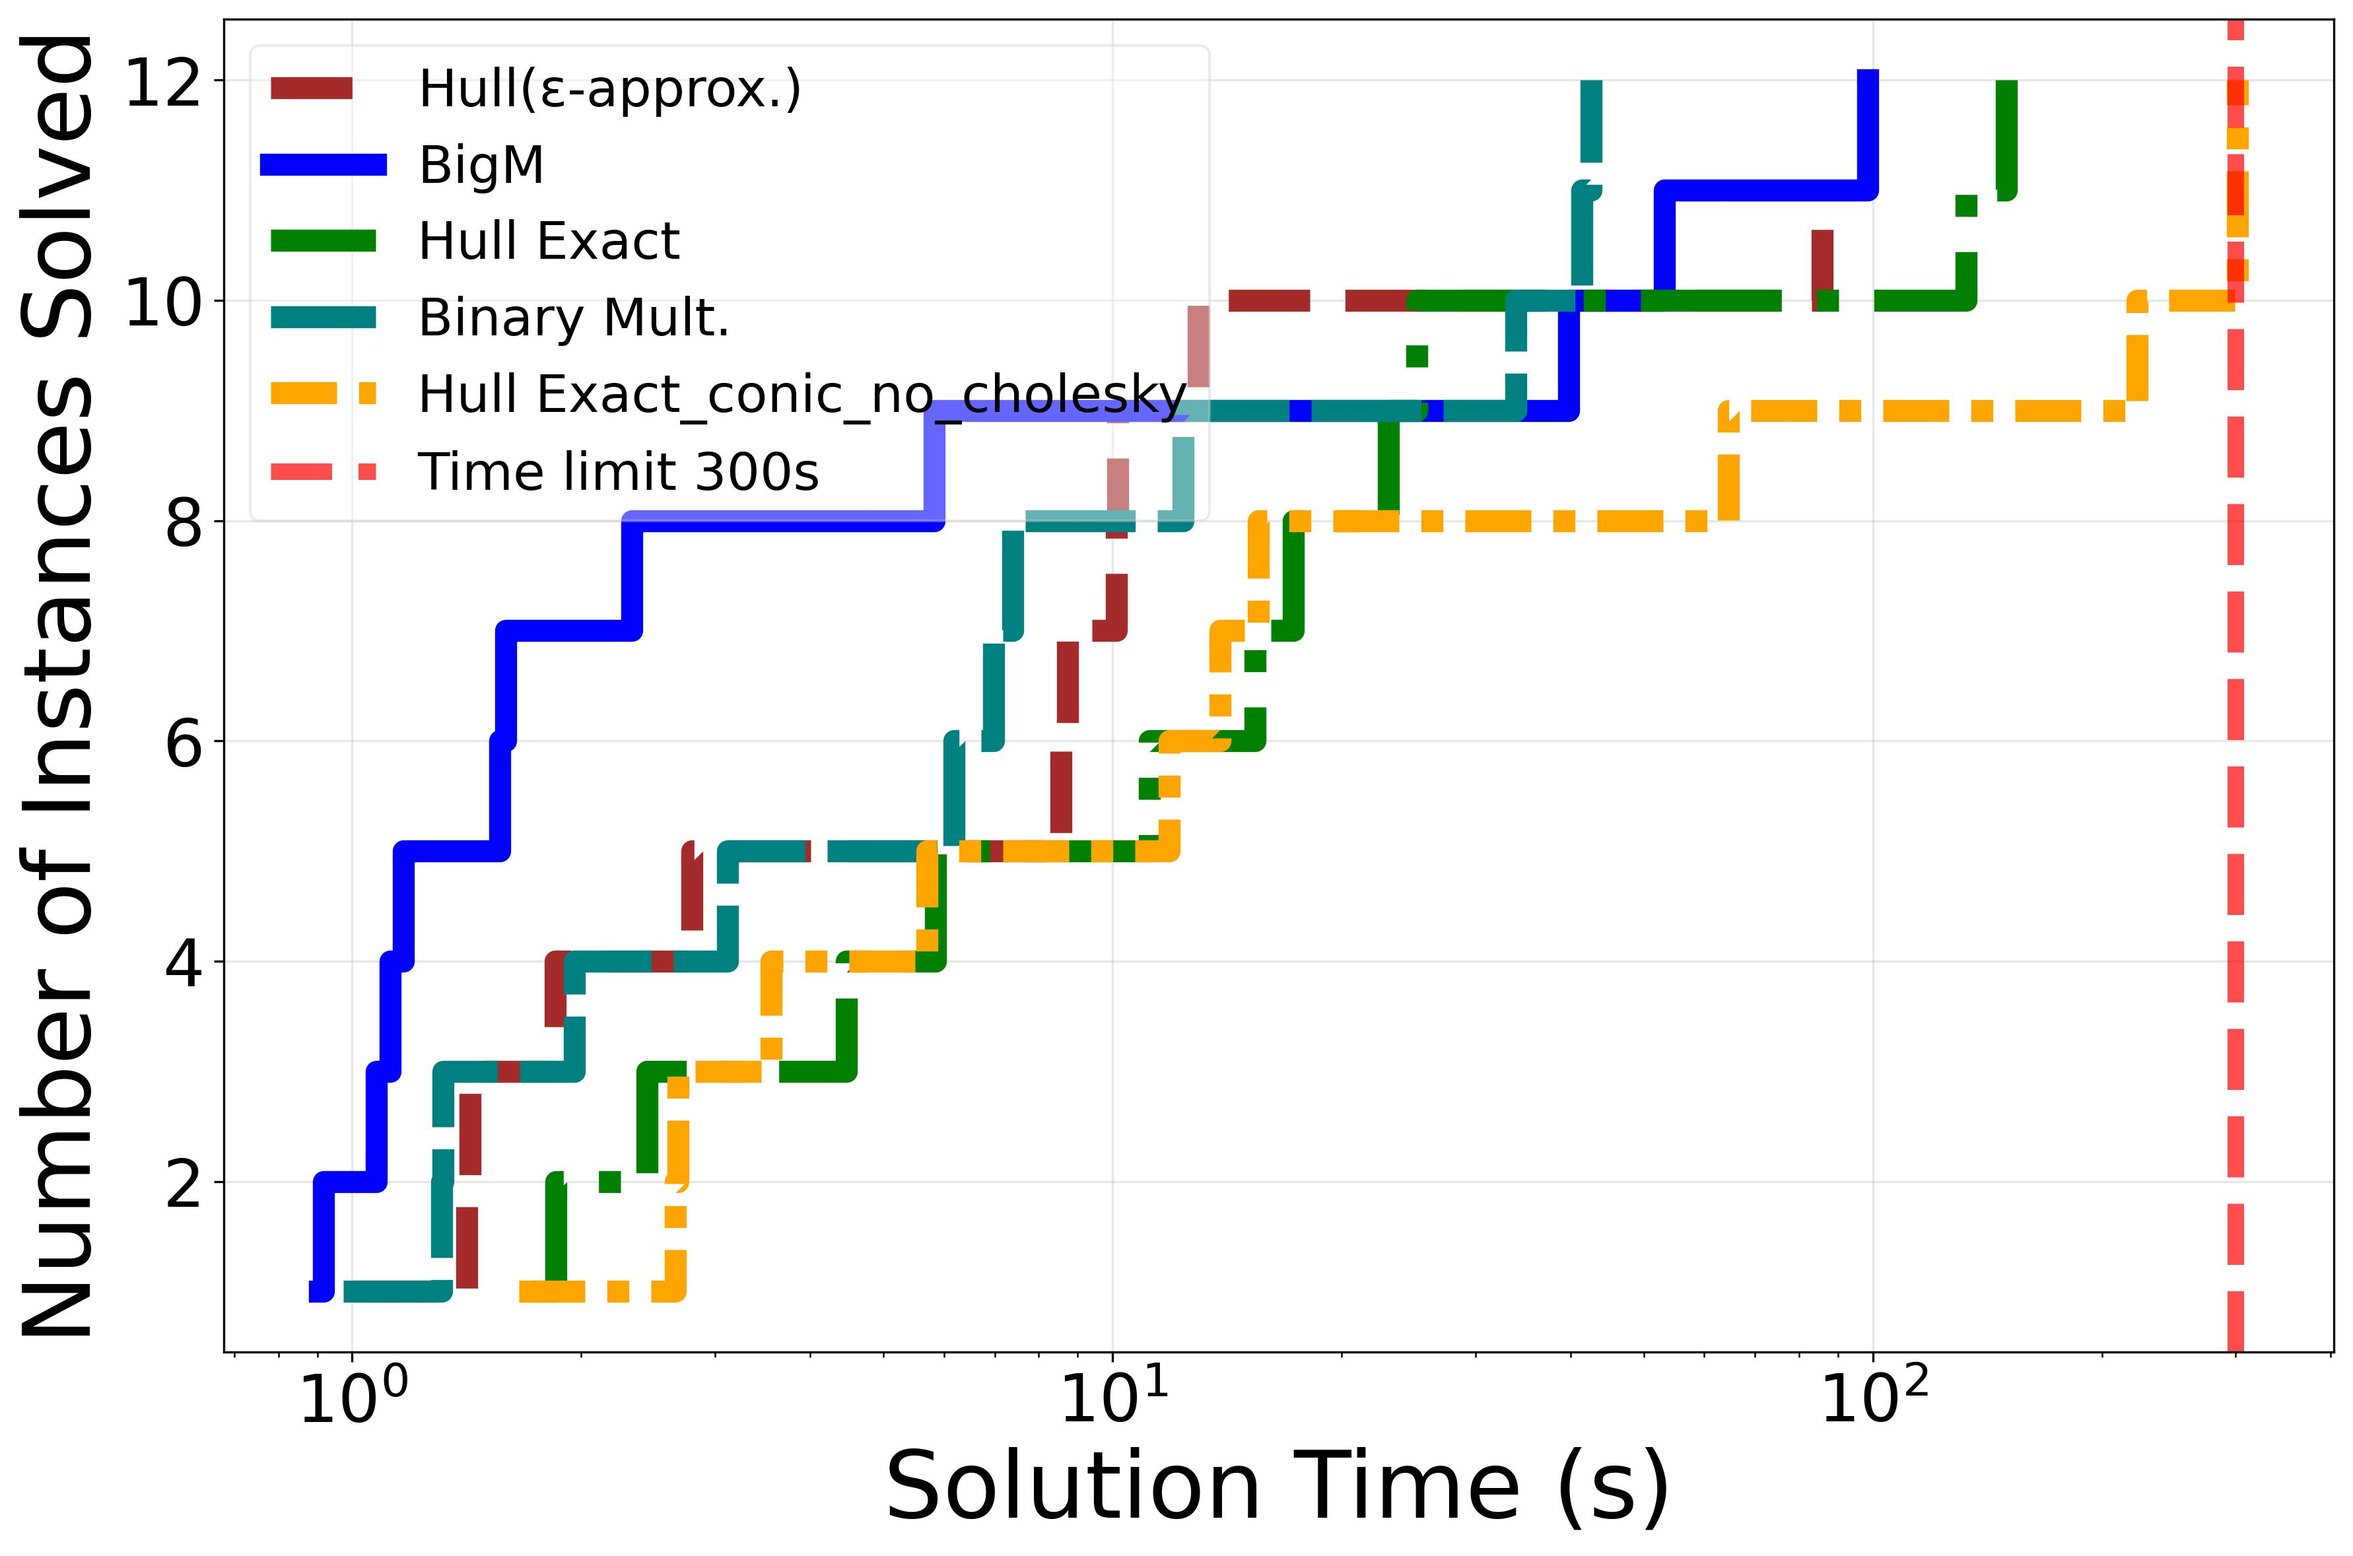
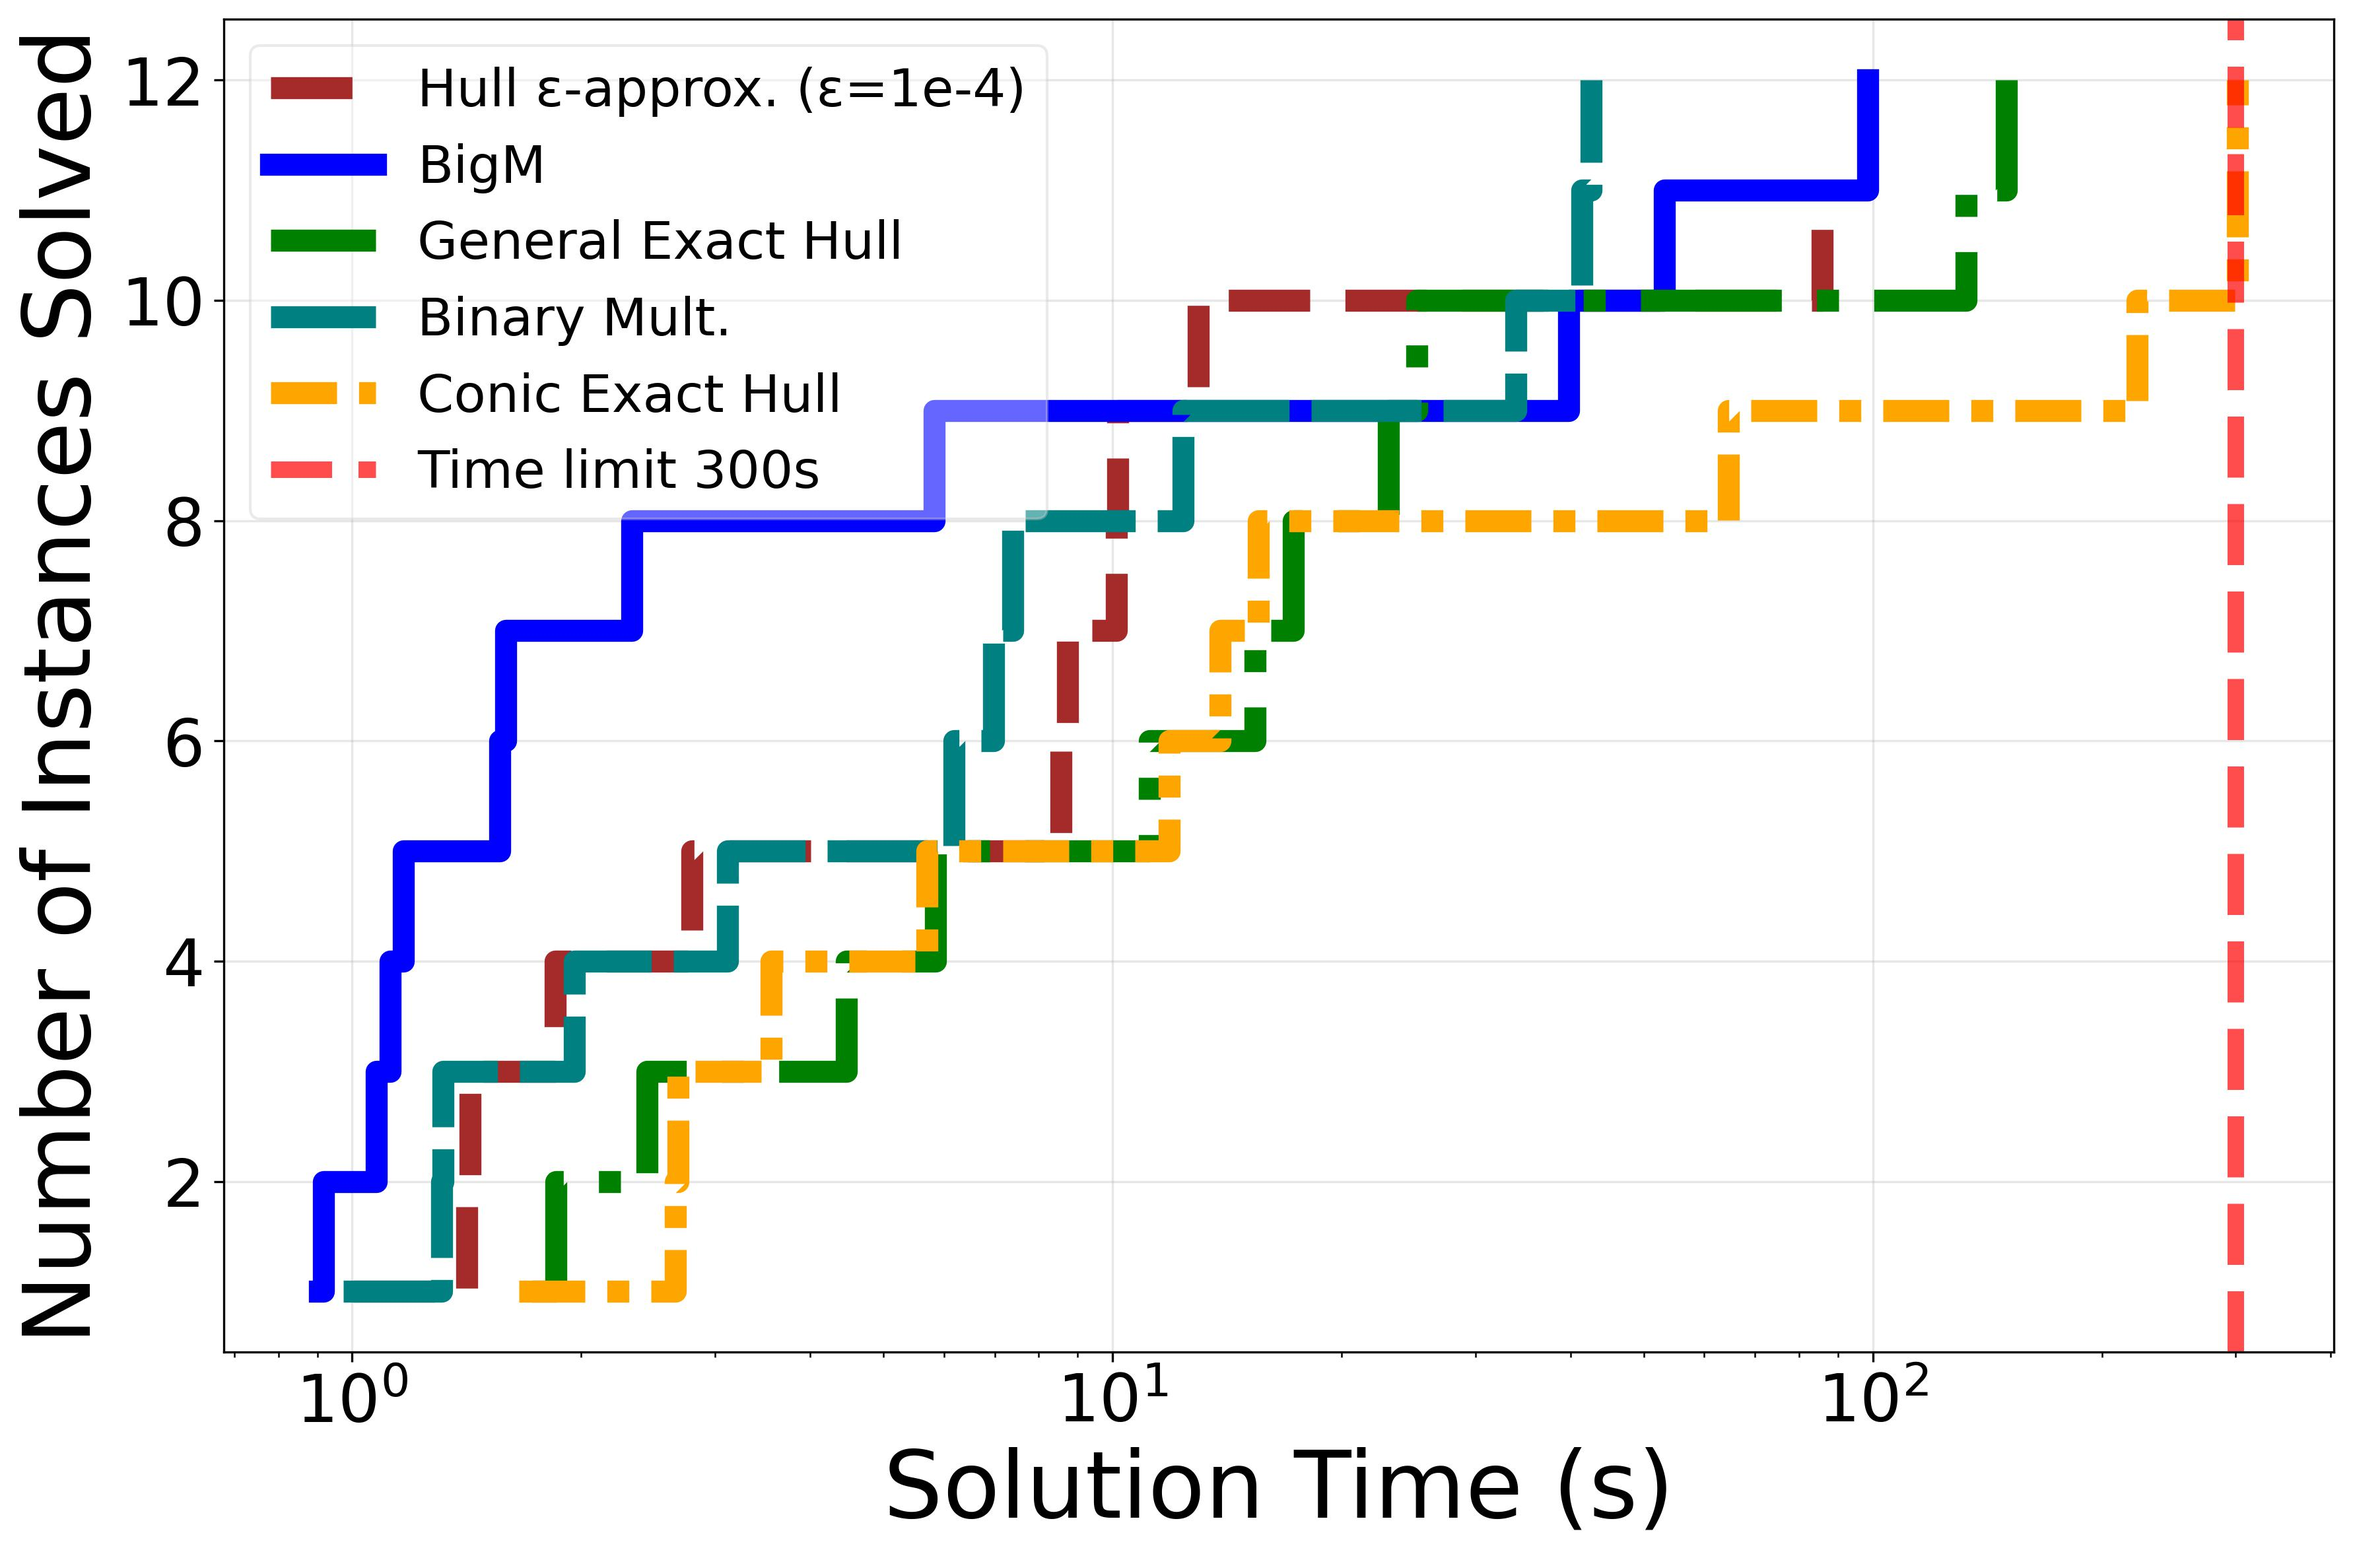
update

diff --git a/analyze_clay_results.py b/analyze_clay_results.py
@@ -11,6 +11,7 @@ Author: Generated for constrained layout problem analysis
 """
 
 import os
+import re
 from datetime import datetime
 from typing import Dict, List, Optional
 
@@ -22,14 +23,33 @@ import pandas as pd
 
 def _get_strategy_display_name(strategy: str) -> str:
     """Gets a display-friendly name for a strategy."""
-    display_name = strategy.replace("gdp.", "")
-    # Longer names must be replaced first to avoid partial replacements
-    display_name = display_name.replace("hull_exact", "Hull Exact")
+    convex_prefix = ""
+    bare = strategy.replace("gdp.", "")
+    if bare.startswith("convex_flag_"):
+        convex_prefix = "Convex Flag "
+        bare = bare[len("convex_flag_"):]
+
+    display_name = bare
+
+    # Handle hull_eps_<value> patterns: hull_eps_1e-3 → Hull(ε=1e-3)
+    eps_match = re.match(r"hull_eps_(.*)", display_name)
+    if eps_match:
+        return convex_prefix + f"Hull(ε={eps_match.group(1)})"
+
+    display_name = display_name.replace("hull_exact_extra_var_inequal", "General Exact Hull Extra Var Ineq.")
+    display_name = display_name.replace("hull_exact_conic_no_sqrt_extra_var", "Conic Exact Hull (No Sqrt, Extra Var)")
+    display_name = display_name.replace("hull_exact_conic_no_sqrt_no_extra_var", "Conic Exact Hull (No Sqrt, No Extra Var)")
+    display_name = display_name.replace("hull_exact_conic_sqrt_extra_var", "Conic Exact Hull (Sqrt, Extra Var)")
+    display_name = display_name.replace("hull_exact_conic_sqrt_no_extra_var", "Conic Exact Hull (Sqrt, No Extra Var)")
+    display_name = display_name.replace("hull_exact_conic_original", "Conic Exact Hull (Only factorized)")
+    display_name = display_name.replace("hull_exact_conic_no_cholesky", "Conic Exact Hull")
+    display_name = display_name.replace("hull_exact_conic", "Conic Exact Hull (Base)")
+    display_name = display_name.replace("hull_exact", "General Exact Hull")
     display_name = display_name.replace("hull_reduced_y", "Hull Reduced Y")
     display_name = display_name.replace("binary_multiplication", "Binary Mult.")
-    display_name = display_name.replace("hull", "Hull(ε-approx.)")
+    display_name = display_name.replace("hull", "Hull ε-approx. (ε=1e-4)")
     display_name = display_name.replace("bigm", "BigM")
-    return display_name
+    return convex_prefix + display_name
 
 
 def _filter_strategies(
